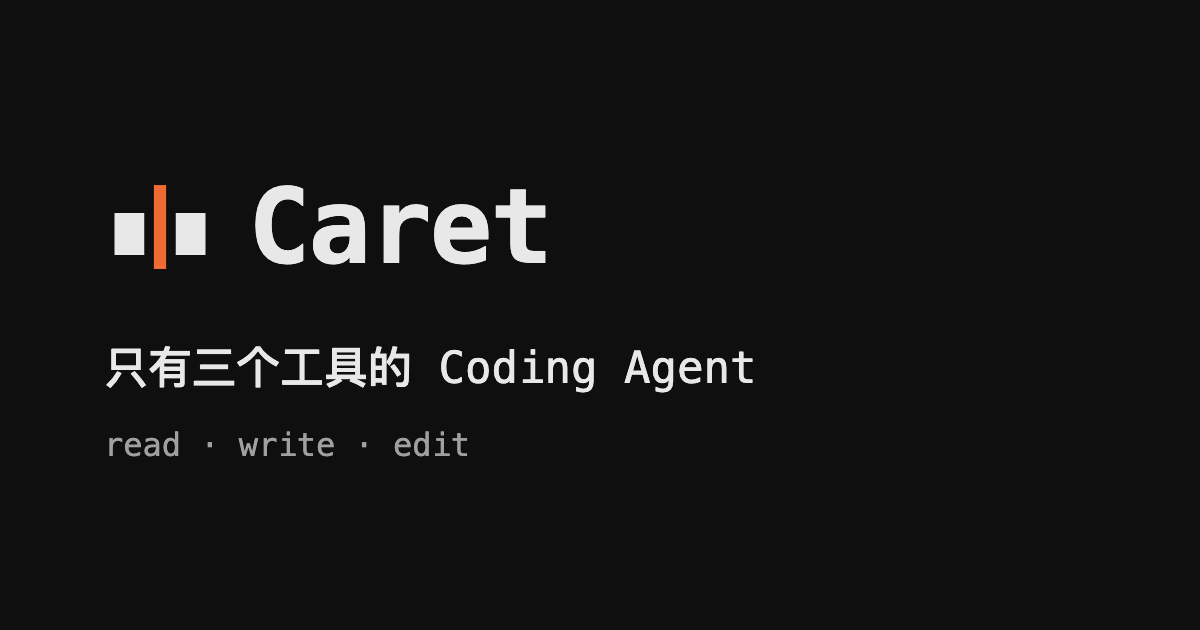
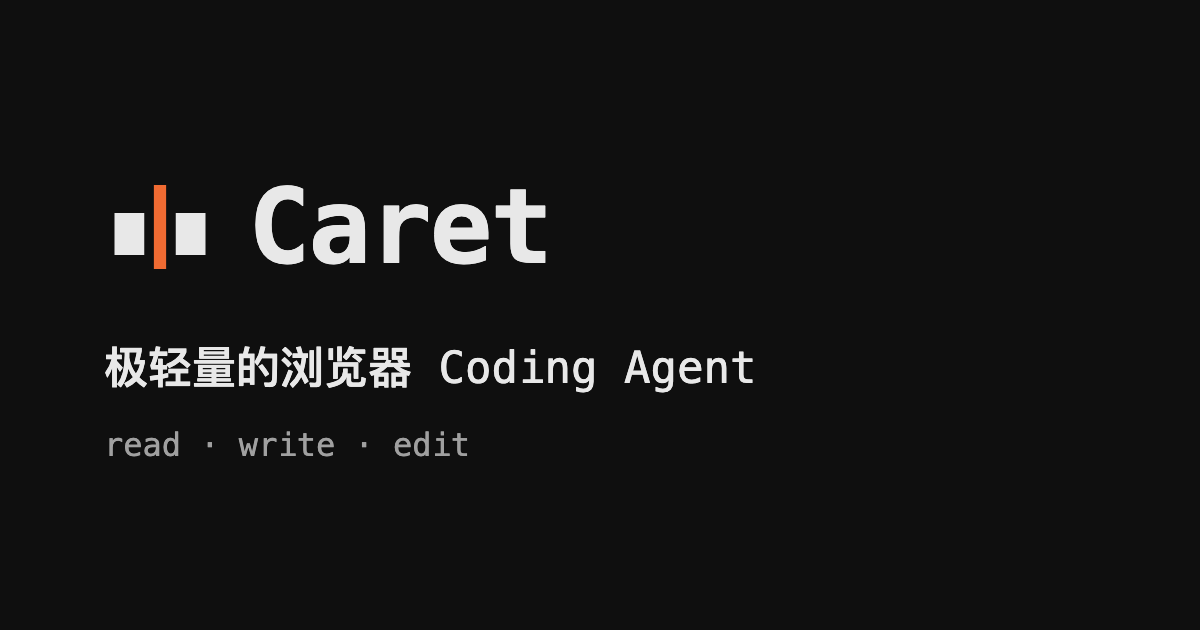
use the final one-line definition everywhere

Changed region(s): [[0.0925, 0.5429, 0.3392, 0.6333]]

diff --git a/index.html b/index.html
@@ -5,16 +5,16 @@
     <meta charset="UTF-8">
     <meta name="viewport" content="width=device-width, initial-scale=1.0">
     <meta http-equiv="Content-Security-Policy" content="default-src 'self'; script-src 'self' 'unsafe-inline'; style-src 'self' 'unsafe-inline'; font-src 'self' data:; img-src 'self' data:; worker-src 'self'; connect-src 'self' https: http://localhost:* http://127.0.0.1:*; base-uri 'none'; form-action 'none'">
-    <meta name="description" content="Caret 是只有读、写、改三个工具的 Coding Agent：不用安装，不执行命令，改动由你确认后写入。">
+    <meta name="description" content="极轻量的浏览器 Coding Agent。只有读、写、改三个工具，不用安装，不执行命令，改动由你确认后写入。">
     <meta property="og:type" content="website">
     <meta property="og:site_name" content="Caret">
-    <meta property="og:title" content="Caret：只有三个工具的 Coding Agent">
-    <meta property="og:description" content="Caret 是只有读、写、改三个工具的 Coding Agent：不用安装，不执行命令，改动由你确认后写入。">
+    <meta property="og:title" content="Caret：极轻量的浏览器 Coding Agent">
+    <meta property="og:description" content="极轻量的浏览器 Coding Agent。只有读、写、改三个工具，不用安装，不执行命令，改动由你确认后写入。">
     <meta property="og:url" content="https://caret.tenon.asia/">
     <meta property="og:image" content="https://caret.tenon.asia/assets/og.png">
     <meta property="og:image:width" content="1200">
     <meta property="og:image:height" content="630">
-    <meta property="og:image:alt" content="Caret，只有三个工具的 Coding Agent：read、write、edit">
+    <meta property="og:image:alt" content="Caret：极轻量的浏览器 Coding Agent。read、write、edit">
     <meta property="og:locale" content="zh_CN">
     <meta name="twitter:card" content="summary_large_image">
     <title>Caret</title>

diff --git a/src/i18n/en.js b/src/i18n/en.js
@@ -10,7 +10,7 @@ export const en = {
     'sidebar.agent': 'Agent',
     'settings.title': 'Settings',
 
-    'welcome.tagline': 'A coding agent with three tools',
+    'welcome.tagline': 'An ultralight coding agent in your browser',
     'welcome.intro': 'Copy, config, styles and small bugs rarely need a full development setup. Caret runs in a web page, with an editor, file tree, diff review, conversation history and Git status. Open a folder, say what should change, and apply the result once you have reviewed it.',
     'welcome.read': 'Read files, list directories, search content',
     'welcome.write': 'Create a file, or rewrite a whole file',
@@ -201,7 +201,7 @@ export const en = {
     'settings.close': 'Close',
 
     'about.version': 'Version',
-    'about.body1': 'Caret is a coding agent that runs in your browser. Open a local folder and describe the change. The model works with three tools: read, write and edit. Changes appear in the editor first. Review the diff, adjust by hand if you like, then apply them to disk.',
+    'about.body1': 'An ultralight coding agent in your browser. Open a local folder and describe the change. The model works with three tools: read, write and edit. Changes appear in the editor first. Review the diff, adjust by hand if you like, then apply them to disk.',
     'about.body2': 'It suits changes you can judge by reading the diff, such as copy, configuration, styles, documentation and small bugs. Caret runs no commands and no tests, and there is nothing to install.',
     'about.publisher': 'Publisher',
     'about.website': 'Tenon website',

diff --git a/src/i18n/zh.js b/src/i18n/zh.js
@@ -10,7 +10,7 @@ export const zh = {
     'sidebar.agent': 'Agent',
     'settings.title': '设置',
 
-    'welcome.tagline': '只有三个工具的 Coding Agent',
+    'welcome.tagline': '极轻量的浏览器 Coding Agent',
     'welcome.intro': '改文案、配置、样式和小 bug，通常不需要一整套开发环境。Caret 运行在网页里，带编辑器、文件树、diff 审阅、对话历史和 Git 状态。打开文件夹，说明要改什么，Agent 改完由你确认后写入。',
     'welcome.read': '读取文件、列出目录、搜索内容',
     'welcome.write': '新建文件，或重写整个文件',
@@ -201,7 +201,7 @@ export const zh = {
     'settings.close': '关闭',
 
     'about.version': '版本',
-    'about.body1': 'Caret 是运行在浏览器里的 Coding Agent。你打开一个本地文件夹，说明要改什么，模型用读、写、改三个工具完成改动。改动先出现在编辑器里，你看完 diff，也可以再手动调整，确认后写入磁盘。',
+    'about.body1': '极轻量的浏览器 Coding Agent。你打开一个本地文件夹，说明要改什么，模型用读、写、改三个工具完成改动。改动先出现在编辑器里，你看完 diff，也可以再手动调整，确认后写入磁盘。',
     'about.body2': '它适合看 diff 就能判断对错的改动，例如文案、配置、样式、文档和小 bug。Caret 不执行命令，不运行测试，也不需要安装。',
     'about.publisher': '出品方',
     'about.website': 'Tenon 官网',

diff --git a/src/app/constants.js b/src/app/constants.js
@@ -153,4 +153,4 @@ export const PROVIDERS = {
 };
 
 /** 当前版本 */
-export const VERSION = '0.11.0';
+export const VERSION = '0.11.1';

diff --git a/README.en.md b/README.en.md
@@ -2,7 +2,7 @@
 
 [简体中文](README.md) | English
 
-A coding agent with three tools: `read`, `write` and `edit`.
+An ultralight coding agent in your browser. It has three tools: `read`, `write` and `edit`.
 
 Caret runs in your browser, with nothing to install and no account. Open a local folder and describe the change. The Agent finds the code and makes the edit. Changes stay in the editor until you have read the diff and applied them to disk.
 

diff --git a/README.md b/README.md
@@ -2,7 +2,7 @@
 
 简体中文 | [English](README.en.md)
 
-只有三个工具的 Coding Agent：`read`、`write`、`edit`。
+极轻量的浏览器 Coding Agent。只有三个工具：`read`、`write`、`edit`。
 
 Caret 运行在浏览器里，不用安装，也不用账号。打开一个本地文件夹，说明要改什么，Agent 找到代码并做出改动。改动先留在编辑器里，你看完 diff 再写入磁盘。
 
